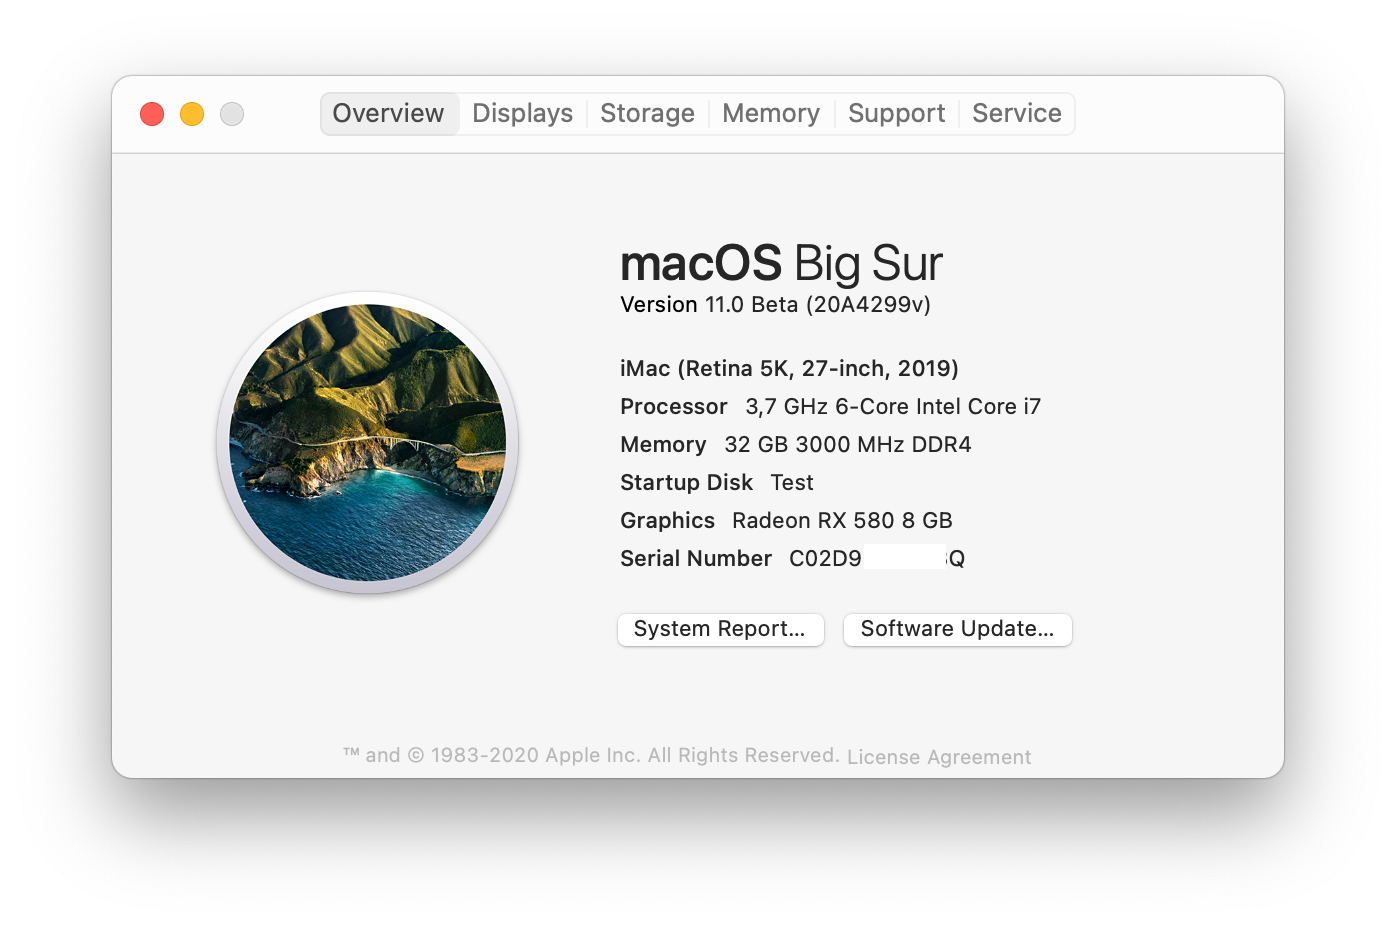
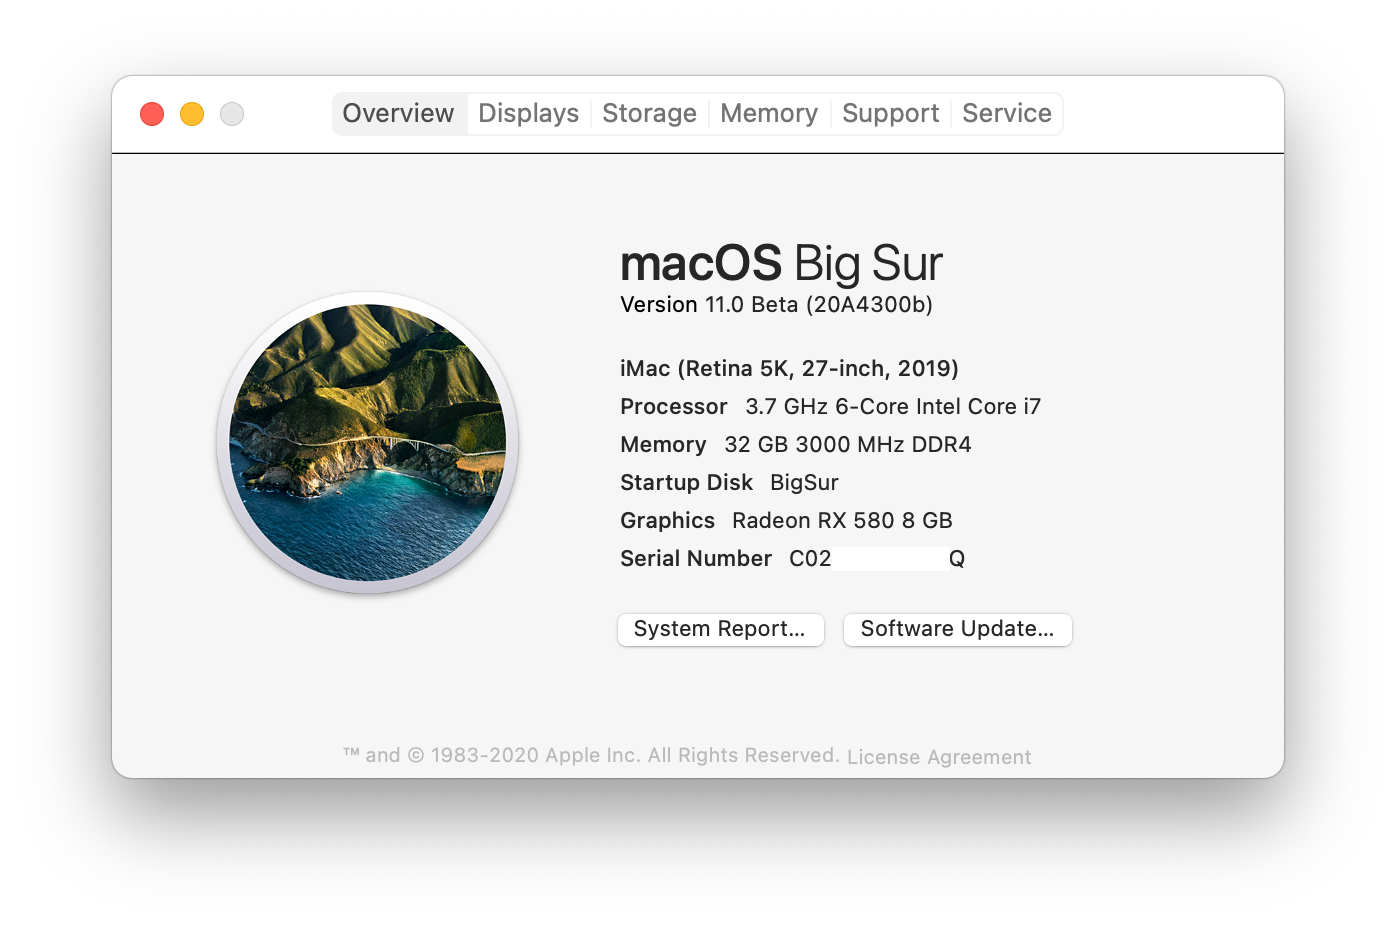
Update Big Sur Beta 2 info and benchmark

diff --git a/README.md b/README.md
@@ -1,6 +1,6 @@
 
 
-# Hackintosh - macOS Big Sur
+# Hackintosh - macOS Big Sur - Beta 2 (20A4300b) - Z370 + 8700K + RX 580
 ![SystemInfo](https://raw.githubusercontent.com/huongdp/Hackintosh/master/Screenshot/BigSur/Overview.png)
 
 # Hardware
@@ -37,10 +37,25 @@
  - Sounds
  - Others (updating...)
 # Benchmarks
-- **Normal (4.7GHz)**
+## **Normal (4.7GHz)**
 
-  Updating...
+OS                    | CPU (Single-Core) | CPU (Multi-Cores) | OpenCL (KBL Graphics) | OpenCL (RX 580)
+----------------------|:-----------------:|:-----------------:|:------------------:|:-------:
+Big Sur (Geekbench 5) |throttling|throttling|[5409](1211633)|[44622](1211665)
+Big Sur (Geekbench 4) |[6250](15630067)|[30135](15630067)|[24261](4863112)|[140718](4863107)
+Catalina (Geekbench 5)|[1198](2932351)|[6233](2932351)|[5450](1211793)|[43108](1211263)
+Catalina (Geekbench 4)|[6231](15629857)|[30069](15629857)|[24481](4863075)|[141787](4863077)
+  \**Geekbench Browser* [here](https://browser.geekbench.com/v4/cpu/15630067)
 
-- **Overclocking (5GHz)**
+## **Overclocking (5GHz)**
 
-  Updating...
+  Waiting... for upgrading radiator system :)
+
+# Credits
+- Bootloaders + Kexts:
+  - [OpenCore](https://github.com/acidanthera/OpenCorePkg)
+  - [Acidanthera](https://github.com/acidanthera/OpenCorePkg)
+- Forums
+  - [dortania](https://dortania.github.io/OpenCore-Desktop-Guide)
+  - [tonymacx86](https://www.tonymacx86.com)
+  - [r/hackintosh](https://www.reddit.com/r/hackintosh)
